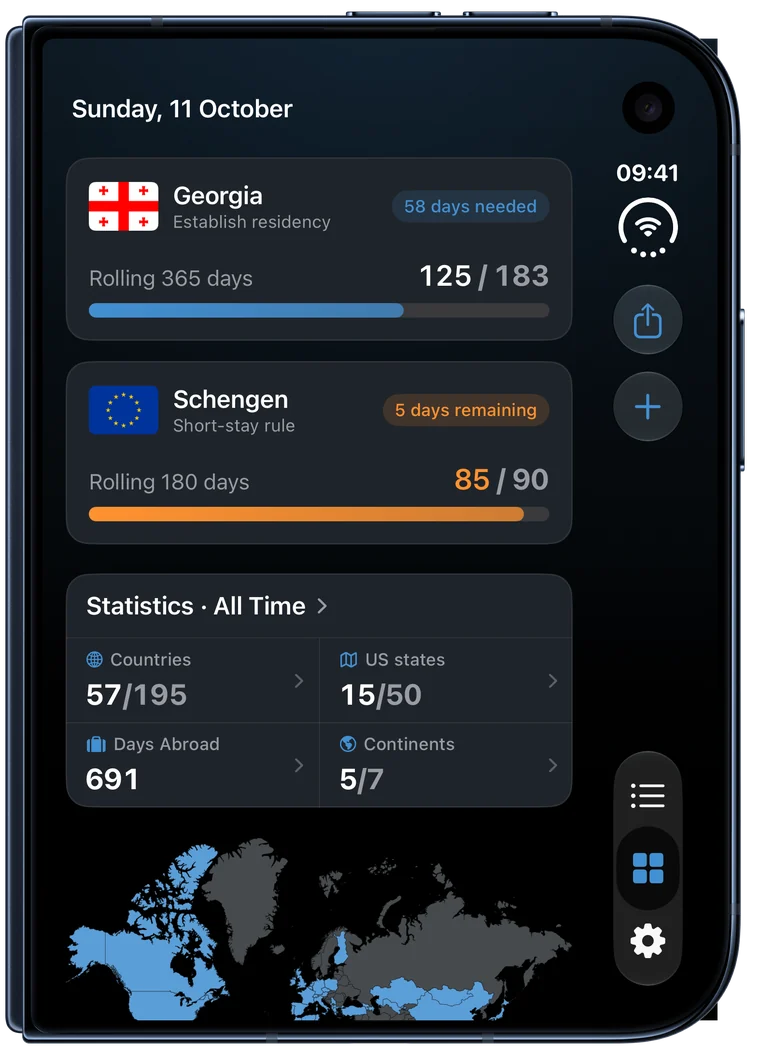
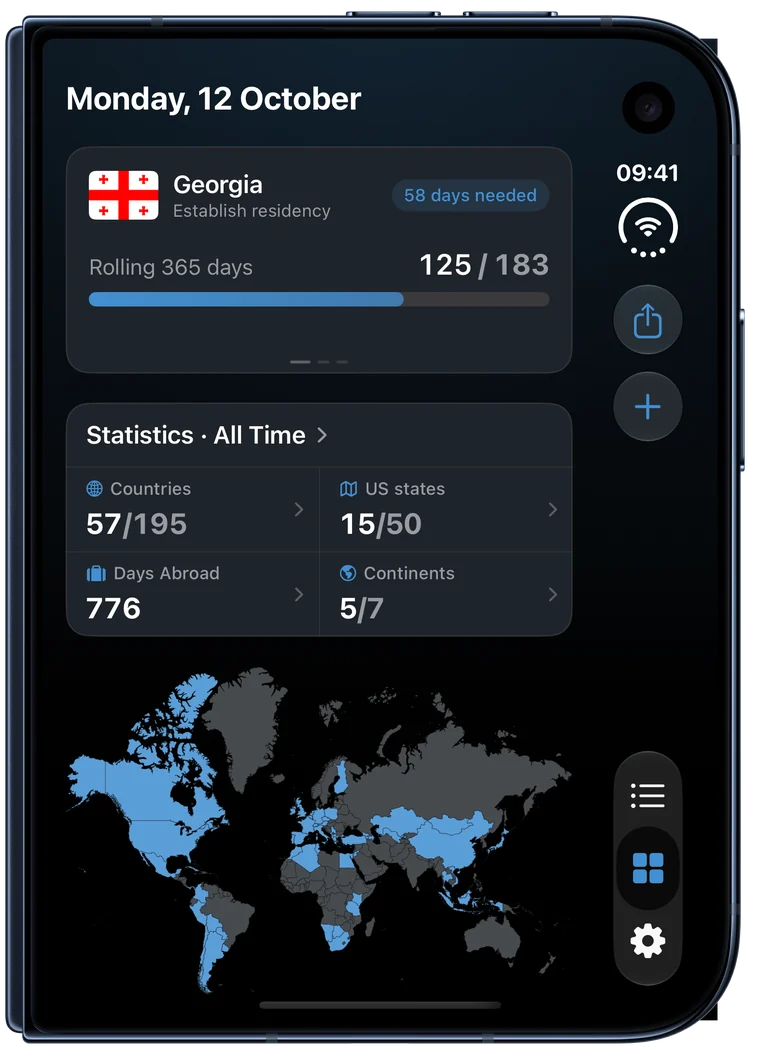
Press: Duo dashboard pair recaptured with the scrolling date
The closed shot shows the tracker carousel and the whole map; the opened
shot shows the trackers side by side and the statistic bars.

diff --git a/press/iphone-duo/index.html b/press/iphone-duo/index.html
@@ -112,10 +112,10 @@
 
       <section aria-labelledby="dashboard">
         <h2 id="dashboard">Room for the whole picture</h2>
-        <p class="section-copy">On the opened display, trackers sit side by side and every statistic gets its own bar: countries, US states, days at home and abroad, continents.</p>
+        <p class="section-copy">Closed, your trackers sit in a carousel above the statistics and the map. Open it and they line up side by side, and every statistic gets its own bar: countries, US states, days at home and abroad, continents.</p>
         <div class="pair">
           <figure class="closed">
-            <img src="/assets/press/iphone-duo/dashboard-closed.webp" alt="AtlasDays dashboard on the closed iPhone Duo with a Georgia residency tracker and a Schengen tracker" width="760" height="1059" />
+            <img src="/assets/press/iphone-duo/dashboard-closed.webp" alt="AtlasDays dashboard on the closed iPhone Duo: a Georgia residency tracker in a carousel, four statistics and a world map of visited countries" width="760" height="1059" />
             <figcaption>Closed</figcaption>
           </figure>
           <figure class="open">
